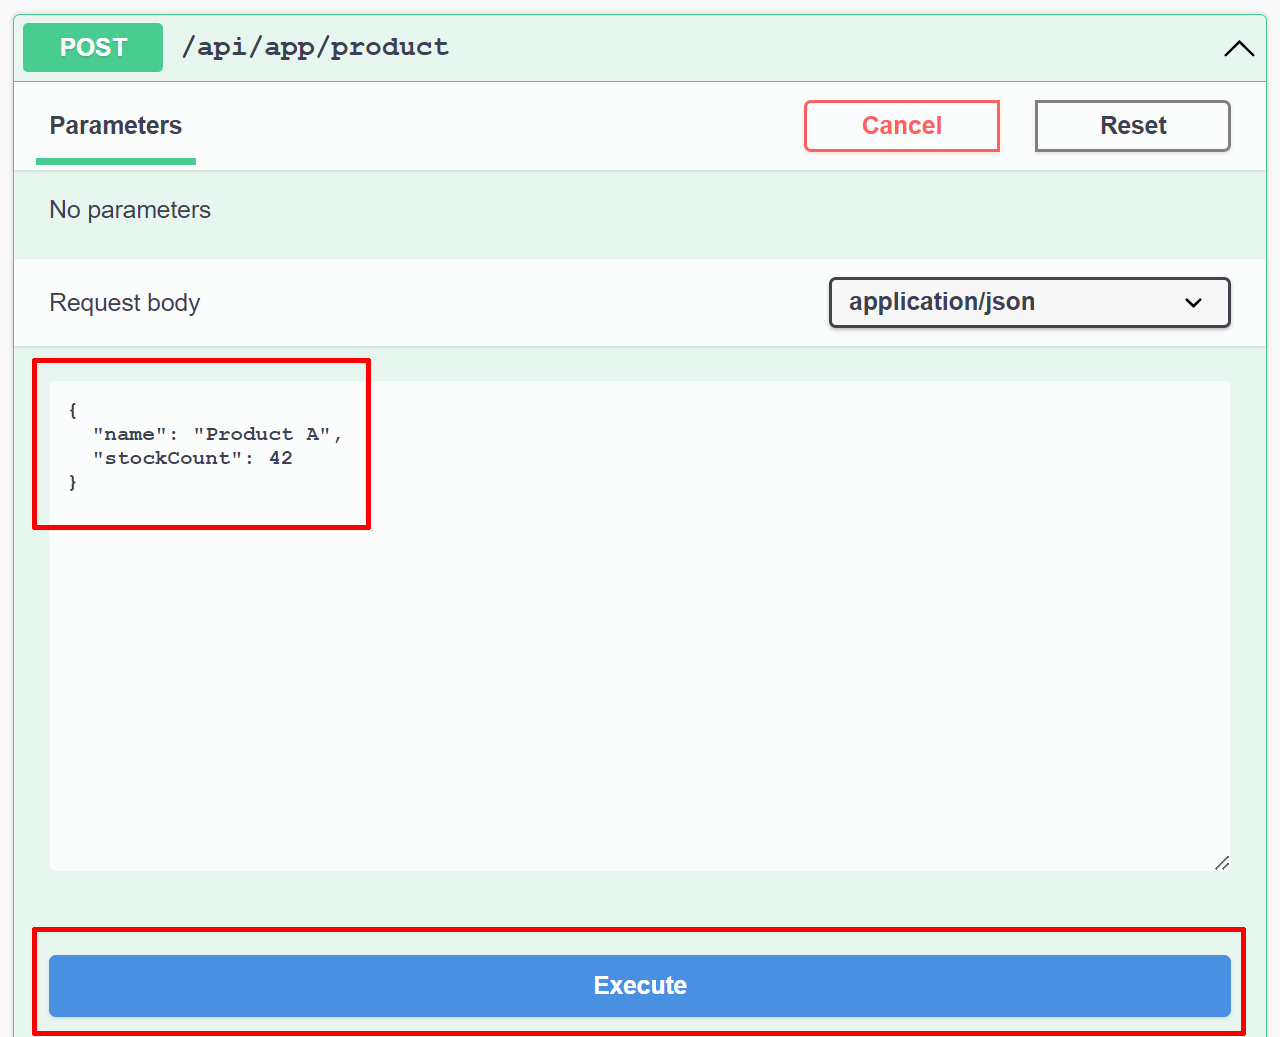
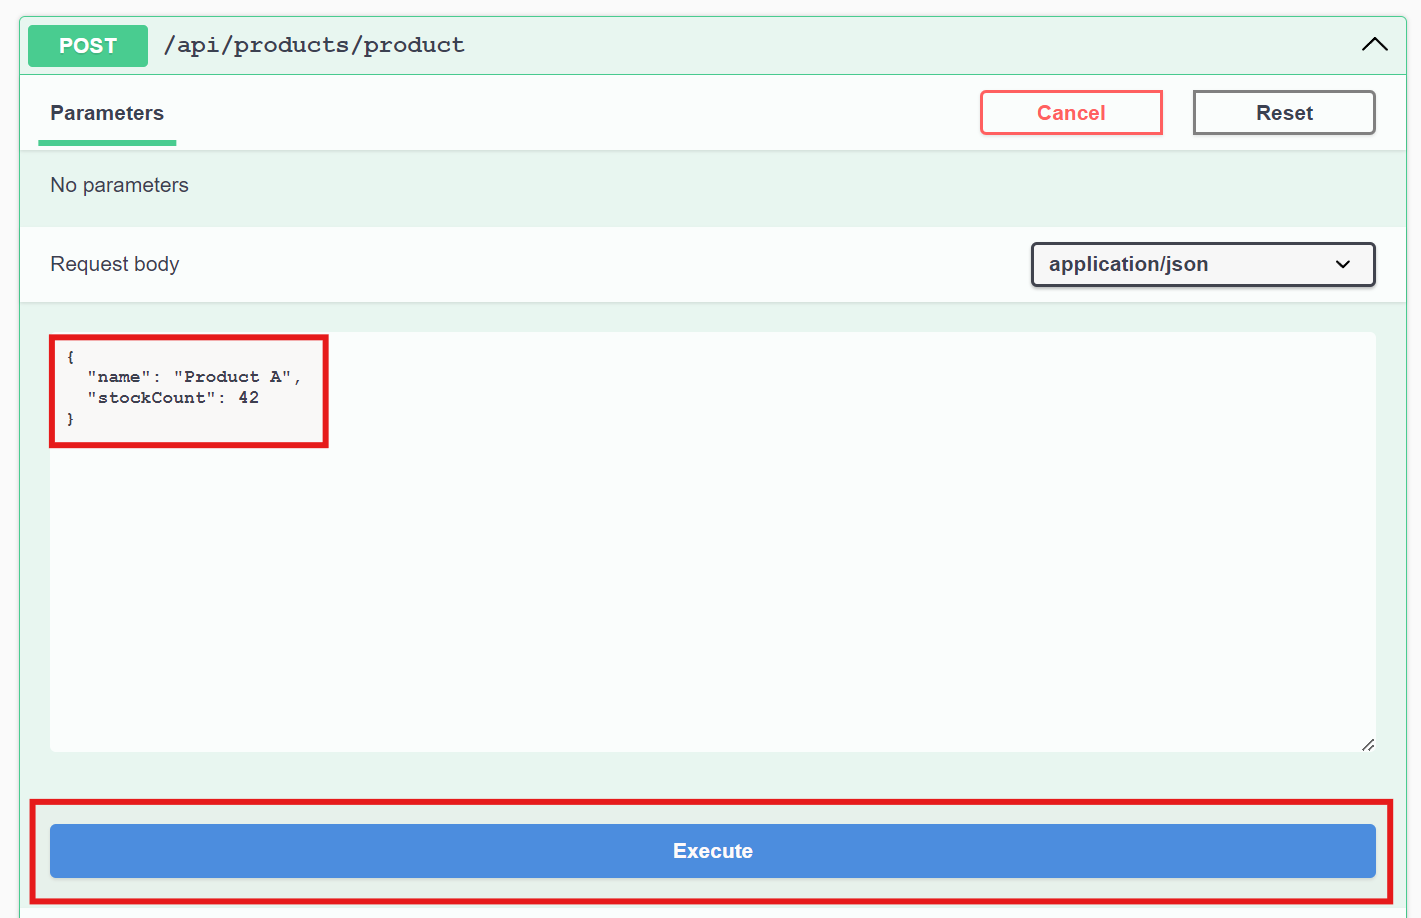
Made improvements for modular monolith tutorial

diff --git a/docs/en/tutorials/modular-crm/part-05.md b/docs/en/tutorials/modular-crm/part-05.md
@@ -345,7 +345,9 @@ public class OrderAppService : OrderingAppService, IOrderAppService
 }
 ````
 
-Open the `ModularCrmModule` class in the main application's solution (the `ModularCrm` solution), find the `ConfigureAutoApiControllers` method and add the following lines inside that method:
+### Exposing Application Services as HTTP API Controllers
+
+After implementing the application service, now we need to create HTTP API endpoints for the ordering module. For that purpose, open the `ModularCrmModule` class in the main application's solution (the `ModularCrm` solution), find the `ConfigureAutoApiControllers` method and add the following lines inside that method:
 
 ````csharp
 private void ConfigureAutoApiControllers()
@@ -353,10 +355,16 @@ private void ConfigureAutoApiControllers()
     Configure<AbpAspNetCoreMvcOptions>(options =>
     {
         options.ConventionalControllers.Create(typeof(ModularCrmModule).Assembly);
-        options.ConventionalControllers.Create(typeof(ProductsApplicationModule).Assembly);
+        options.ConventionalControllers.Create(typeof(ProductsApplicationModule).Assembly, settings => 
+        {
+            settings.RootPath = "products";
+        });
 
         //ADD THE FOLLOWING LINE:
-        options.ConventionalControllers.Create(typeof(OrderingModule).Assembly);
+        options.ConventionalControllers.Create(typeof(OrderingModule).Assembly, settings => 
+        {
+            settings.RootPath = "orders";
+        });
     });
 }
 ````
@@ -373,7 +381,7 @@ Once you see the user interface of the web application, type `/swagger` at the e
 
 ![abp-studio-ordering-swagger-ui-in-browser](images/abp-studio-ordering-swagger-ui-in-browser.png)
 
-Expand the `/api/app/order` API and click the *Try it out* button. Then, create a few orders by filling in the request body and clicking the *Execute* button:
+Expand the `/api/orders/order` API and click the *Try it out* button. Then, create a few orders by filling in the request body and clicking the *Execute* button:
 
 ![abp-studio-swagger-ui-create-order-execute](images/abp-studio-swagger-ui-create-order-execute.png)
 

diff --git a/docs/en/tutorials/modular-crm/part-03.md b/docs/en/tutorials/modular-crm/part-03.md
@@ -387,7 +387,10 @@ Configure<AbpAspNetCoreMvcOptions>(options =>
     options.ConventionalControllers.Create(typeof(ModularCrmModule).Assembly);
 
     //ADD THE FOLLOWING LINE:
-    options.ConventionalControllers.Create(typeof(ProductsApplicationModule).Assembly);
+    options.ConventionalControllers.Create(typeof(ProductsApplicationModule).Assembly, settings => 
+    {
+        settings.RootPath = "products";
+    });
 });
 ````
 
@@ -409,7 +412,7 @@ Once you see the user interface of the web application, type `/swagger` at the e
 
 ![abp-studio-swagger-ui-in-browser](images/abp-studio-swagger-ui-in-browser.png)
 
-Expand the `/api/app/product` API and click the *Try it out* button as shown in the following figure:
+Expand the `/api/products/product` API and click the *Try it out* button as shown in the following figure:
 
 ![abp-studio-swagger-ui-create-product-try](images/abp-studio-swagger-ui-create-product-try.png)
 
